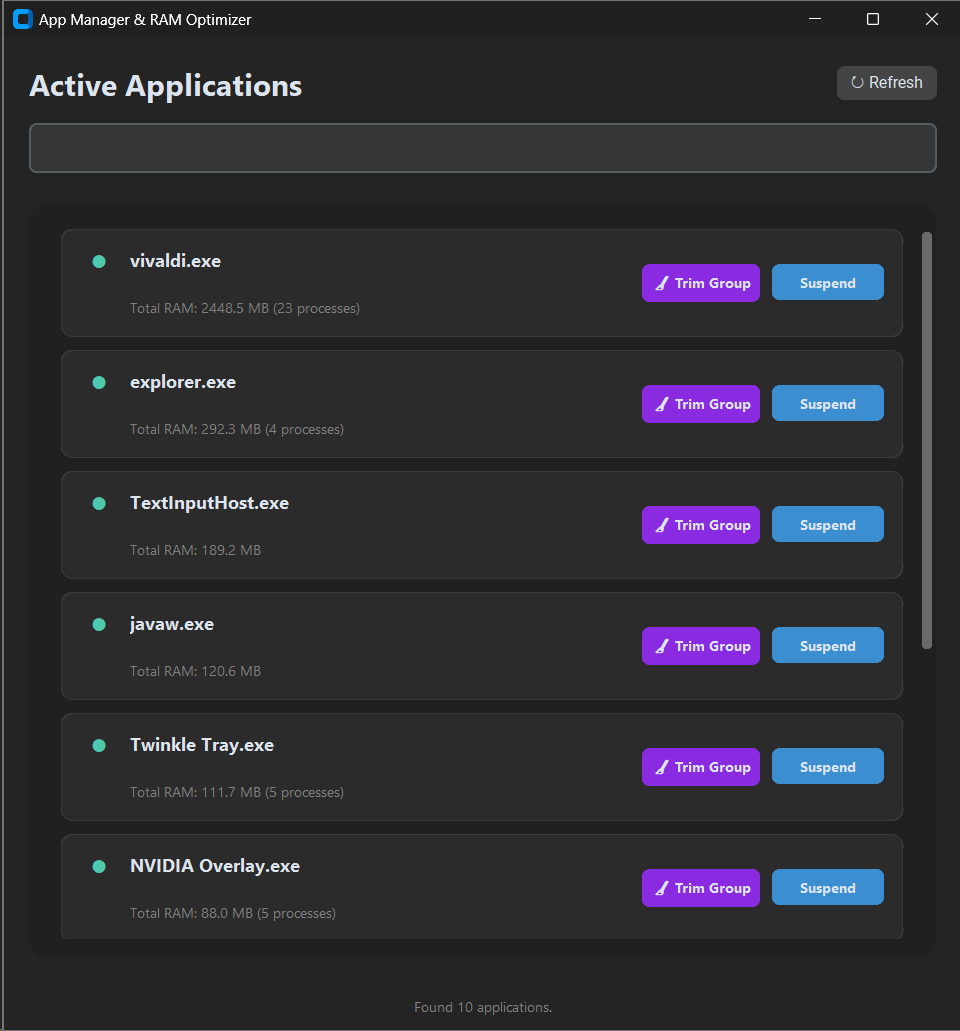
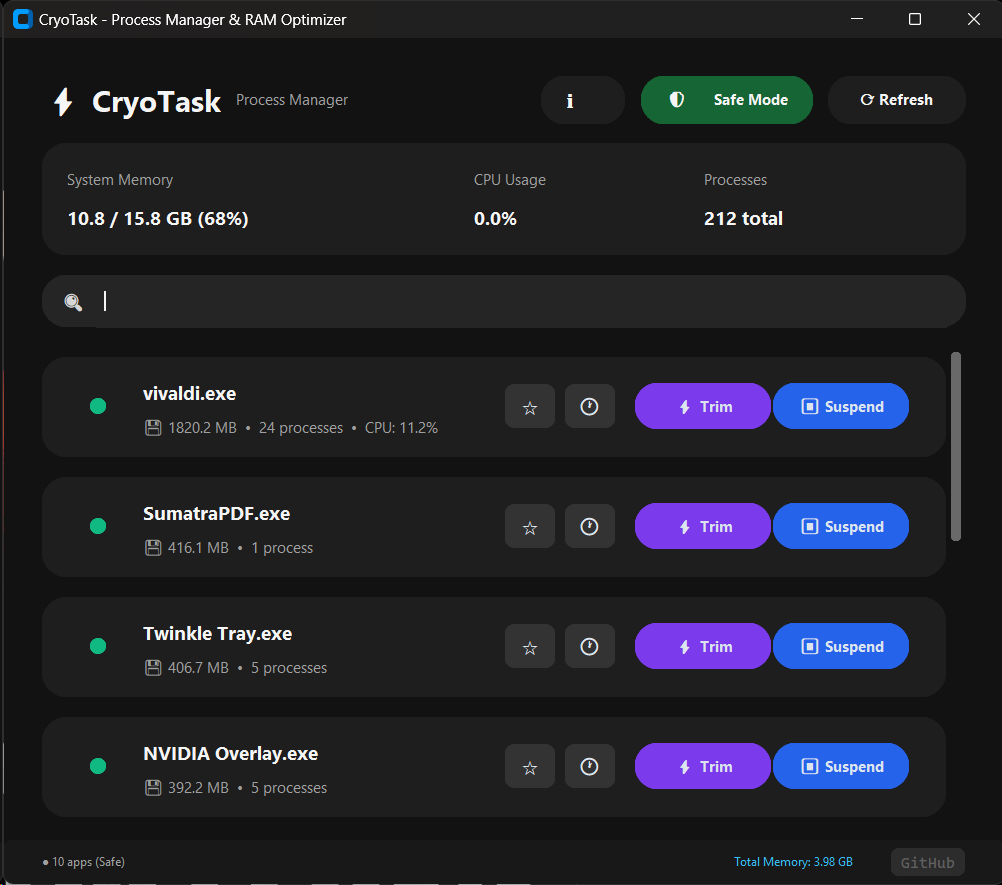
Docs: Update readme and screenshot for new UI

diff --git a/readme.md b/readme.md
@@ -8,7 +8,7 @@
 ![License](https://img.shields.io/badge/License-MIT-green)
 ![Downloads](https://img.shields.io/github/downloads/GZomeMain/CryoTask/total?style=flat&color=orange)
 
-**Freeze heavy applications to stop CPU usage or Trim their memory to free up RAM.**
+**Freeze heavy applications to stop CPU usage, or Trim their memory to free up RAM.**
 
 [⬇ Download Latest Version](https://github.com/GZomeMain/CryoTask/releases) • [🐛 Report Bug](https://github.com/GZomeMain/CryoTask/issues)
 
@@ -21,18 +21,20 @@
 
 ## 🚀 Overview
 
-**CryoTask** is a lightweight Windows utility designed to give you control over your system resources. Whether you have a game running in the background, a heavy IDE, or a RAM-hungry browser, CryoTask helps you reclaim performance without closing your apps.
+**CryoTask** is a lightweight Windows utility designed to give you precise control over your system resources. Whether you have a game running in the background, a heavy IDE, or a RAM-hungry browser, CryoTask helps you reclaim performance without closing your apps.
 
-It combines the functionality of a **Process Freezer** (pausing execution) and a **Memory Cleaner** (like Mem Reduct) into one modern, dark-themed interface.
+The modern "Card View" interface provides a real-time system overview, displaying current CPU usage, total processes, and a detailed RAM usage bar. It combines the functionality of a **Process Freezer** (pausing execution) and a **Memory Cleaner** (like Mem Reduct) into one application.
 
 ## ✨ Features
 
-*   **❄ Suspend (Freeze) Apps:** Completely pause an application's processes. This drops its CPU usage to **0%**, stopping battery drain and heat generation while keeping the app open.
-*   **🧹 Smart RAM Trimming:** Uses native Windows APIs to force applications to release unused memory (Working Set) back to the OS.
-*   **🧠 Group Awareness:** Automatically detects multi-process applications (like **Google Chrome, Discord, VS Code**) and manages the entire group at once. No more suspending just the "frame" while the background tabs keep eating RAM.
-*   **💾 State Persistence:** Remembers which apps you suspended, even after you close and reopen CryoTask.
-*   **🎨 Modern UI:** Built with `CustomTkinter` for a clean, Windows 11-style dark mode interface.
-*   **🛡 Safety Filters:** Only lists applications with visible windows to prevent accidental suspension of critical system services.
+* **❄ Suspend (Freeze) Apps:** Completely pause an application's processes. This drops its CPU usage to **0%**, stopping battery drain and heat generation while keeping the app open.
+* **🧹 Smart RAM Trimming:** Uses native Windows APIs to force applications to release unused memory (Working Set) back to the OS.
+* **🕐 Scheduling:** Set up **Periodic Trim** to automatically clean an application's memory every few minutes, ensuring low RAM usage without manual intervention.
+* **🧠 Group Awareness:** Automatically detects multi-process applications (like **Google Chrome, Discord, VS Code**) and manages the entire group at once.
+* **⭐ Pinning:** Pin your most frequently used processes to the top of the list for instant access.
+* **🛡 Safe Mode & Advanced Control:** Defaults to **Safe Mode**, which filters out critical system services. Switch to **Advanced Mode** to view and manage all active processes.
+* **💾 State Persistence:** Remembers suspended apps, pinned favorites, and scheduled actions even after you close and reopen CryoTask.
+* **🎨 Modern UI:** Built with `CustomTkinter` for a clean, Windows 11-style dark mode interface featuring interactive status dots and high-DPI scaling.
 
 ## 📥 Installation
 
@@ -45,7 +47,7 @@ No coding knowledge required.
 ### Option 2: Run from Source (For Developers)
 1.  **Clone the repository:**
     ```bash
-    git clone https://github.com/GZomeMain/CryoTask.git
+    git clone [https://github.com/GZomeMain/CryoTask.git](https://github.com/GZomeMain/CryoTask.git)
     cd CryoTask
     ```
 
@@ -55,7 +57,7 @@ No coding knowledge required.
     ```
 
 3.  **Run the application:**
-    *   *Note: You must run your terminal/CMD as Administrator for memory trimming to work.*
+    * *Note: You must run your terminal/CMD as Administrator for memory trimming to work.*
     ```bash
     python main.py
     ```
@@ -80,7 +82,7 @@ If you want to compile the `.exe` yourself:
 
 ## ⚠ Disclaimer
 
-While CryoTask filters out system processes, suspending or trimming the memory of unstable applications or active anti-cheat software may cause crashes. **Use responsibly.**
+While CryoTask's Safe Mode and filters help prevent accidental issues, suspending or trimming the memory of unstable applications or active anti-cheat software may still cause crashes. **Use responsibly.**
 
 ## 📄 License
 
